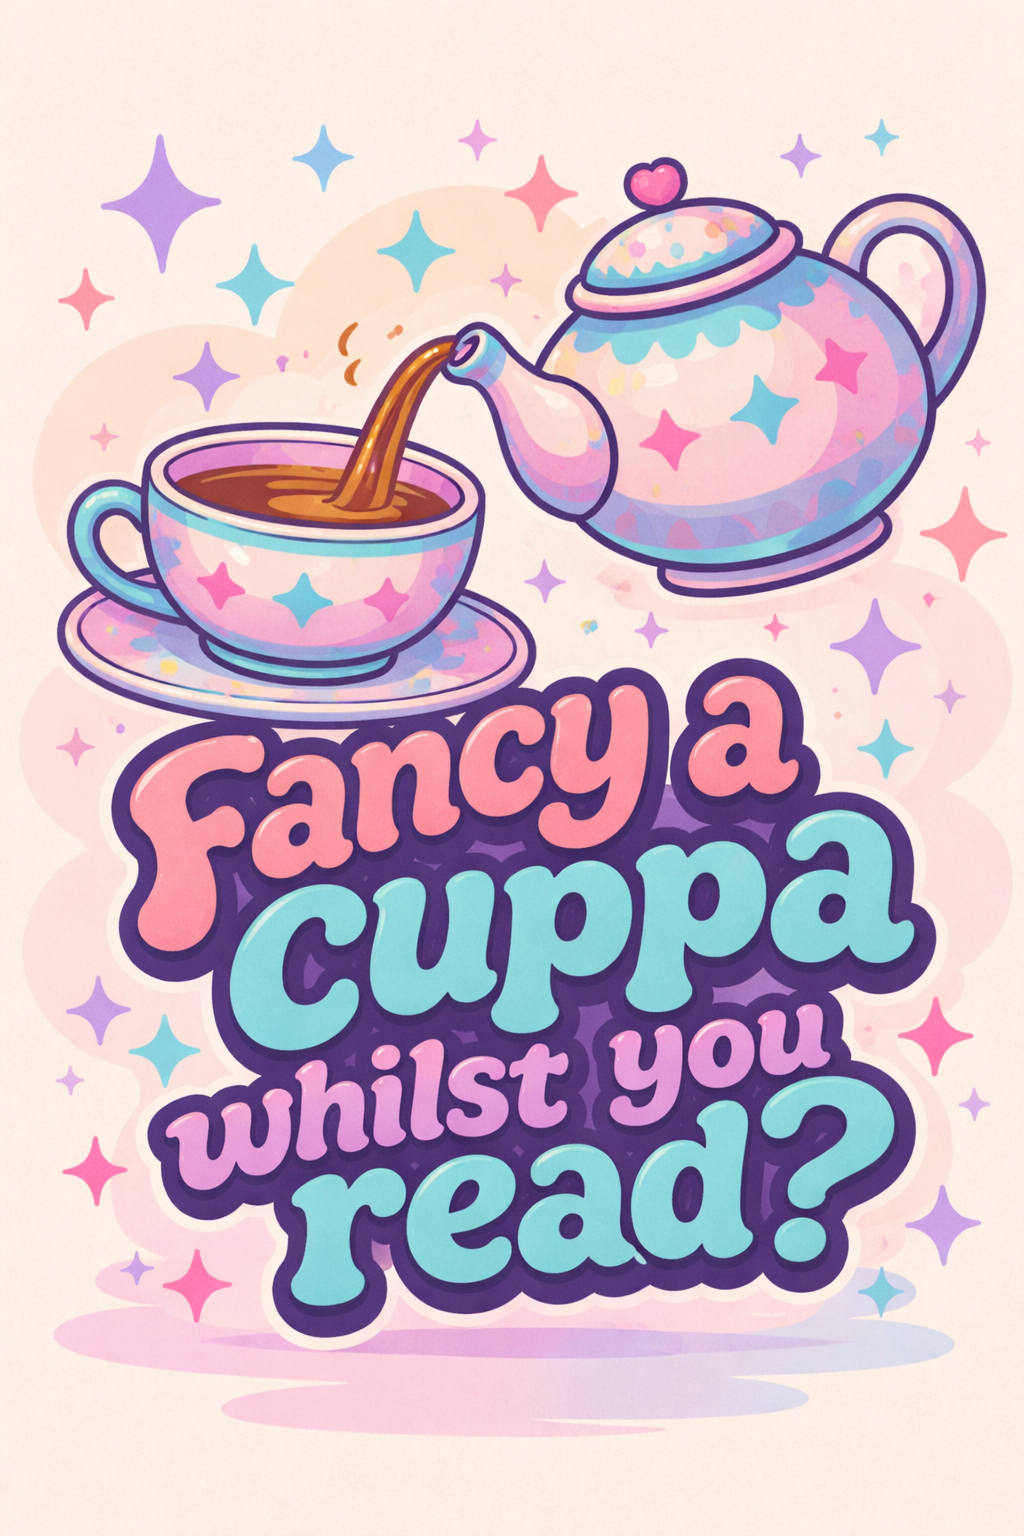
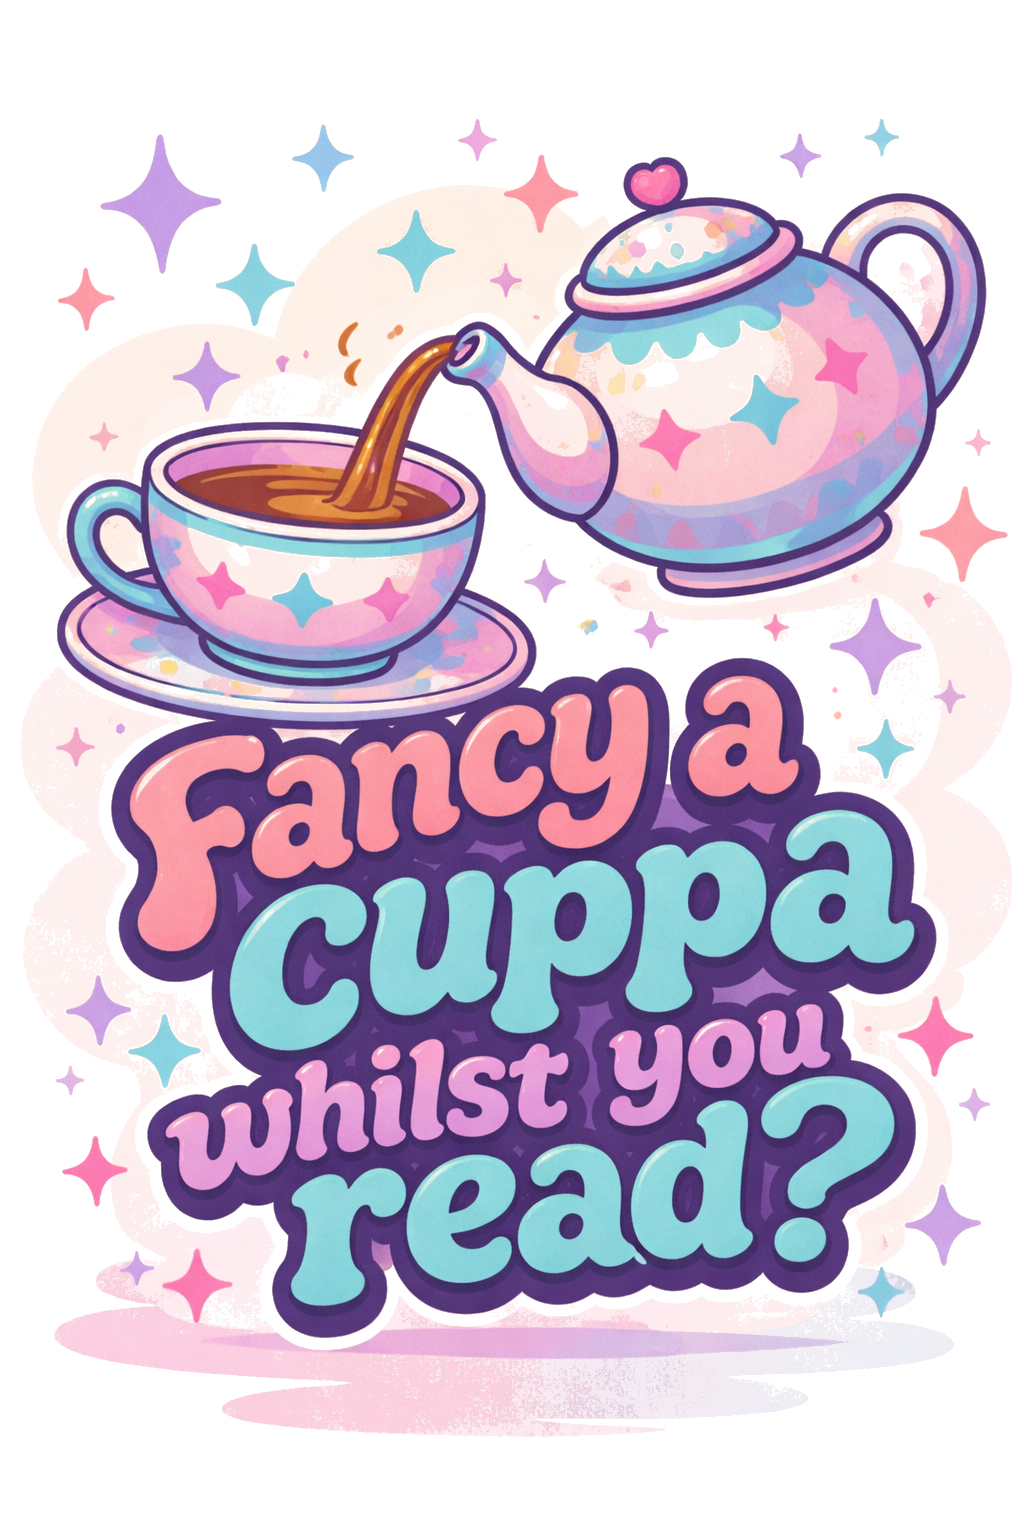
Make teapot appear inline after reading delay with transparent background

diff --git a/src/app/publications/page.tsx b/src/app/publications/page.tsx
@@ -1,17 +1,37 @@
 "use client";
 
-import { useState, useMemo } from "react";
+import { useState, useMemo, useEffect } from "react";
 import { PUBLICATIONS, type PublicationType, type Publication } from "@/data/publications";
 
-/* ── Floating Teapot ─────────────────────────────────────────────── */
-function FloatingTeapot() {
+/* ── Teapot Break ─────────────────────────────────────────────────── */
+function TeapotBreak() {
+  const [visible, setVisible] = useState(false);
+  const [dismissed, setDismissed] = useState(false);
+
+  useEffect(() => {
+    const timer = setTimeout(() => {
+      setVisible(true);
+    }, 15000); // appear after 15 seconds
+    return () => clearTimeout(timer);
+  }, []);
+
+  if (dismissed || !visible) return null;
+
   return (
-    <div className="hidden xl:block fixed left-8 top-[45%] z-30 pointer-events-none select-none">
-      <img
-        src="/images/fancy-a-cuppa.png"
-        alt="Fancy a cuppa whilst you read?"
-        className="w-64 teapot-bob drop-shadow-lg"
-      />
+    <div className="teapot-appear my-8 mx-auto max-w-md flex flex-col items-center text-center px-4">
+      <div className="relative">
+        <img
+          src="/images/fancy-a-cuppa.png"
+          alt="Fancy a cuppa whilst you read?"
+          className="w-56 md:w-64 teapot-bob drop-shadow-md"
+        />
+      </div>
+      <button
+        onClick={() => setDismissed(true)}
+        className="mt-2 text-xs text-text-light hover:text-pop-purple transition-colors"
+      >
+        dismiss ✕
+      </button>
     </div>
   );
 }
@@ -124,8 +144,6 @@ export default function Publications() {
 
   return (
     <div className="page-enter">
-      <FloatingTeapot />
-
       {/* Hero */}
       <section className="bg-soft-pink/40 py-16 md:py-24 px-4">
         <div className="max-w-4xl mx-auto flex items-start gap-6">
@@ -207,12 +225,15 @@ export default function Publications() {
       {/* Publication list grouped by year */}
       <section className="py-8 px-4 bg-cream">
         <div className="max-w-4xl mx-auto">
-          {years.map((year) => {
+          {years.map((year, yearIndex) => {
             const pubs = groupedByYear[year];
             if (!pubs || pubs.length === 0) return null;
 
             return (
-              <div key={year} className="mb-10">
+              <div key={year}>
+              {/* Show teapot after the 3rd year group */}
+              {yearIndex === 3 && <TeapotBreak />}
+              <div className="mb-10">
                 <h2 className="text-2xl font-bold text-text-primary mb-4 flex items-center gap-2">
                   <span className="text-pop-purple">{year}</span>
                   <span className="text-sm font-normal text-text-light">
@@ -281,6 +302,7 @@ export default function Publications() {
                     </div>
                   ))}
                 </div>
+              </div>
               </div>
             );
           })}

diff --git a/src/app/globals.css b/src/app/globals.css
@@ -208,11 +208,21 @@ body {
 /* Teapot pouring animation */
 @keyframes teapot-bob {
   0%, 100% { transform: translateY(0); }
-  50% { transform: translateY(-10px); }
+  50% { transform: translateY(-8px); }
+}
+
+@keyframes teapot-appear {
+  0% { opacity: 0; transform: translateY(30px) scale(0.9); }
+  60% { opacity: 1; transform: translateY(-5px) scale(1.02); }
+  100% { opacity: 1; transform: translateY(0) scale(1); }
 }
 
 .teapot-bob {
   animation: teapot-bob 4s ease-in-out infinite;
+}
+
+.teapot-appear {
+  animation: teapot-appear 1s ease-out forwards;
 }
 
 /* Smooth page transitions */
